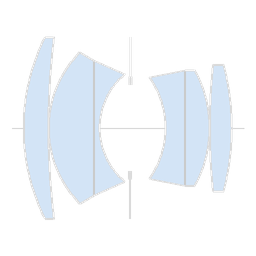
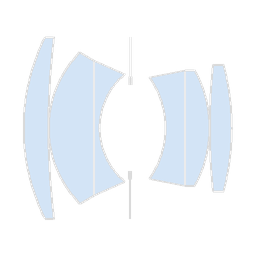
Use dashed white optical axis for visibility on dark themes

diff --git a/scripts/build_diagrams.py b/scripts/build_diagrams.py
@@ -24,9 +24,9 @@ _PADDING = 24 * _SUPERSAMPLE
 _BG_COLOR = (0, 0, 0, 0)
 _GLASS_FILL = (128, 179, 230, 89)
 _SURFACE_LINE = (217, 217, 217, 255)
-_CEMENTED_LINE = (166, 166, 166, 153)
+_CEMENTED_LINE = (217, 217, 217, 128)
 _STOP_COLOR = (217, 217, 217, 255)
-_AXIS_COLOR = (128, 128, 128, 89)
+_AXIS_COLOR = (255, 255, 255, 140)
 
 
 def _compute_vertex_positions(surfaces):
@@ -99,6 +99,24 @@ def _element_polygon(surfaces, positions, front_i, back_i, to_px):
     return polygon
 
 
+def _draw_dashed_line(draw, x0, y0, x1, y1, color, width, dash=8, gap=6):
+    dx = x1 - x0
+    dy = y1 - y0
+    length = math.sqrt(dx * dx + dy * dy)
+    if length < 1:
+        return
+    nx, ny = dx / length, dy / length
+    pos = 0.0
+    while pos < length:
+        end = min(pos + dash, length)
+        draw.line(
+            [(x0 + nx * pos, y0 + ny * pos), (x0 + nx * end, y0 + ny * end)],
+            fill=color,
+            width=width,
+        )
+        pos = end + gap
+
+
 def _draw_arc(draw, vertex_x, radius, semi_ap, to_px, color, width):
     points = _arc_points(vertex_x, radius, semi_ap, to_px)
     draw.line(points, fill=color, width=width)
@@ -130,10 +148,10 @@ def _render_lens(surfaces):
         return (px, py)
 
     # Optical axis
-    draw.line(
-        [(_PADDING * 0.5, y_center), (size - _PADDING * 0.5, y_center)],
-        fill=_AXIS_COLOR,
-        width=1 * _SUPERSAMPLE,
+    _draw_dashed_line(
+        draw, _PADDING * 0.5, y_center, size - _PADDING * 0.5, y_center,
+        _AXIS_COLOR, 1 * _SUPERSAMPLE,
+        dash=8 * _SUPERSAMPLE, gap=6 * _SUPERSAMPLE,
     )
 
     # Fill glass elements
